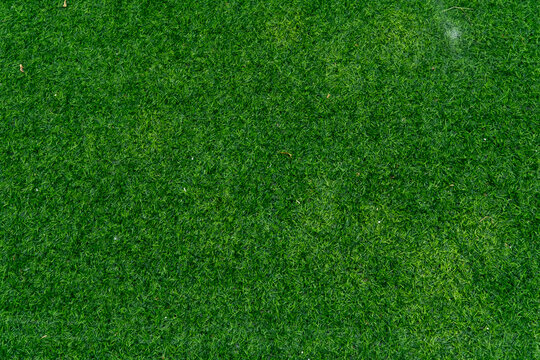
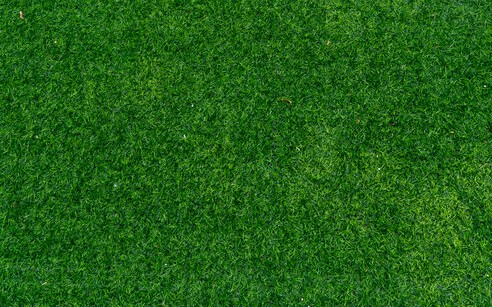
Fix dimentions and light

diff --git a/project/MyScene.js b/project/MyScene.js
@@ -34,7 +34,7 @@ export class MyScene extends CGFscene {
 
     //Initialize scene objects
     this.axis = new CGFaxis(this, 20, 1);
-    this.plane = new MyPlane(this, 64);
+    this.plane = new MyPlane(this, 64, 0, 4, 0, 4);
     this.sphere = new MySphere(this, 64, 32);
     this.sphereVisible = true;
     this.numFloors = 3;
@@ -131,6 +131,8 @@ export class MyScene extends CGFscene {
 
     this.setDefaultAppearance();
 
+    this.lights[0].update();
+
     // Draw axis  
     if (this.displayAxis) {
       this.axis.display();
@@ -150,13 +152,13 @@ export class MyScene extends CGFscene {
     if (this.displaySphere) {
       this.pushMatrix();
       this.sphereMaterial.apply();
-      this.scale(200, 200, 200);
+      this.scale(400, 400, 400);
       this.sphere.display();
       this.popMatrix();
     }
     if (this.displayBuilding) {
       this.pushMatrix();
-      this.translate(0, 1.5, 0);
+      this.translate(0, 1.5, -150);
       this.building.display();
       this.popMatrix();
     }

diff --git a/project/MyInterface.js b/project/MyInterface.js
@@ -20,9 +20,6 @@ export class MyInterface extends CGFinterface {
         //Checkbox element in GUI
         this.gui.add(this.scene, 'displayAxis').name('Display Axis');
 
-        //Checkbox to control the Sphere Visibility
-        this.gui.add(this.scene,'displaySphere').name('Outer Sphere');
-
         //Checkbox to control the Plain Visibility
         this.gui.add(this.scene, 'displayPlain').name('Plain');
 

diff --git a/project/MyPanorama.js b/project/MyPanorama.js
@@ -16,7 +16,7 @@ export class MyPanorama extends CGFobject{
         this.appearance.setEmission(1,1,1,1);
         this.appearance.setTexture(texture);
         this.appearance.setTextureWrap('REPEAT', 'REPEAT');
-        this.sphere = new MySphere(scene, 64, 32, 200, true);
+        this.sphere = new MySphere(scene, 64, 32, 400, true);
     }
 
     display() {
